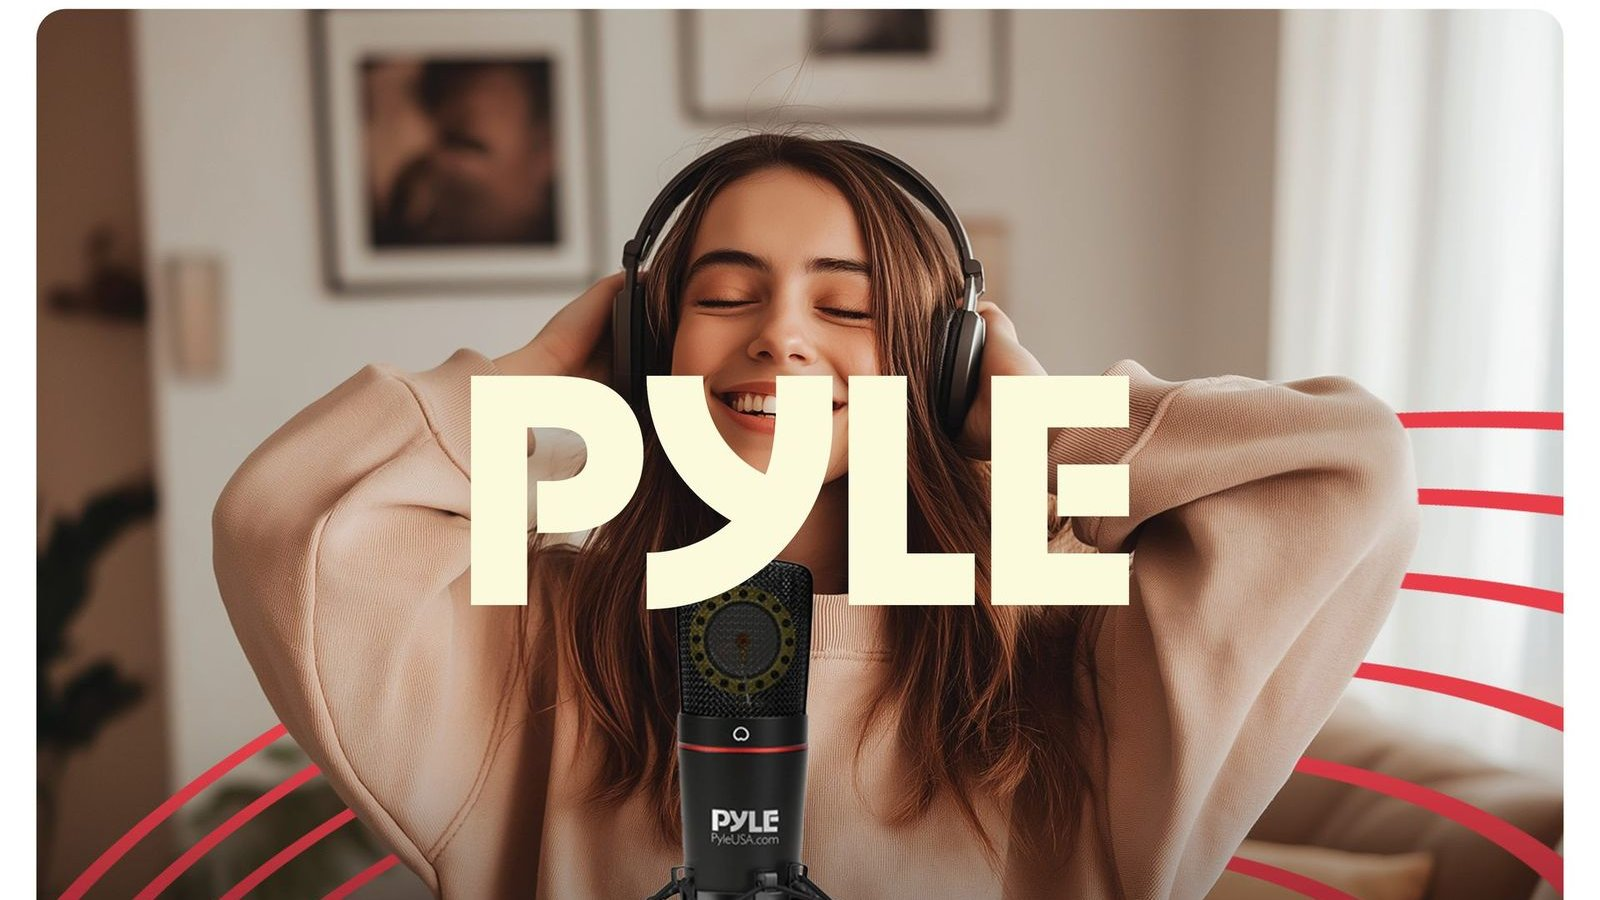
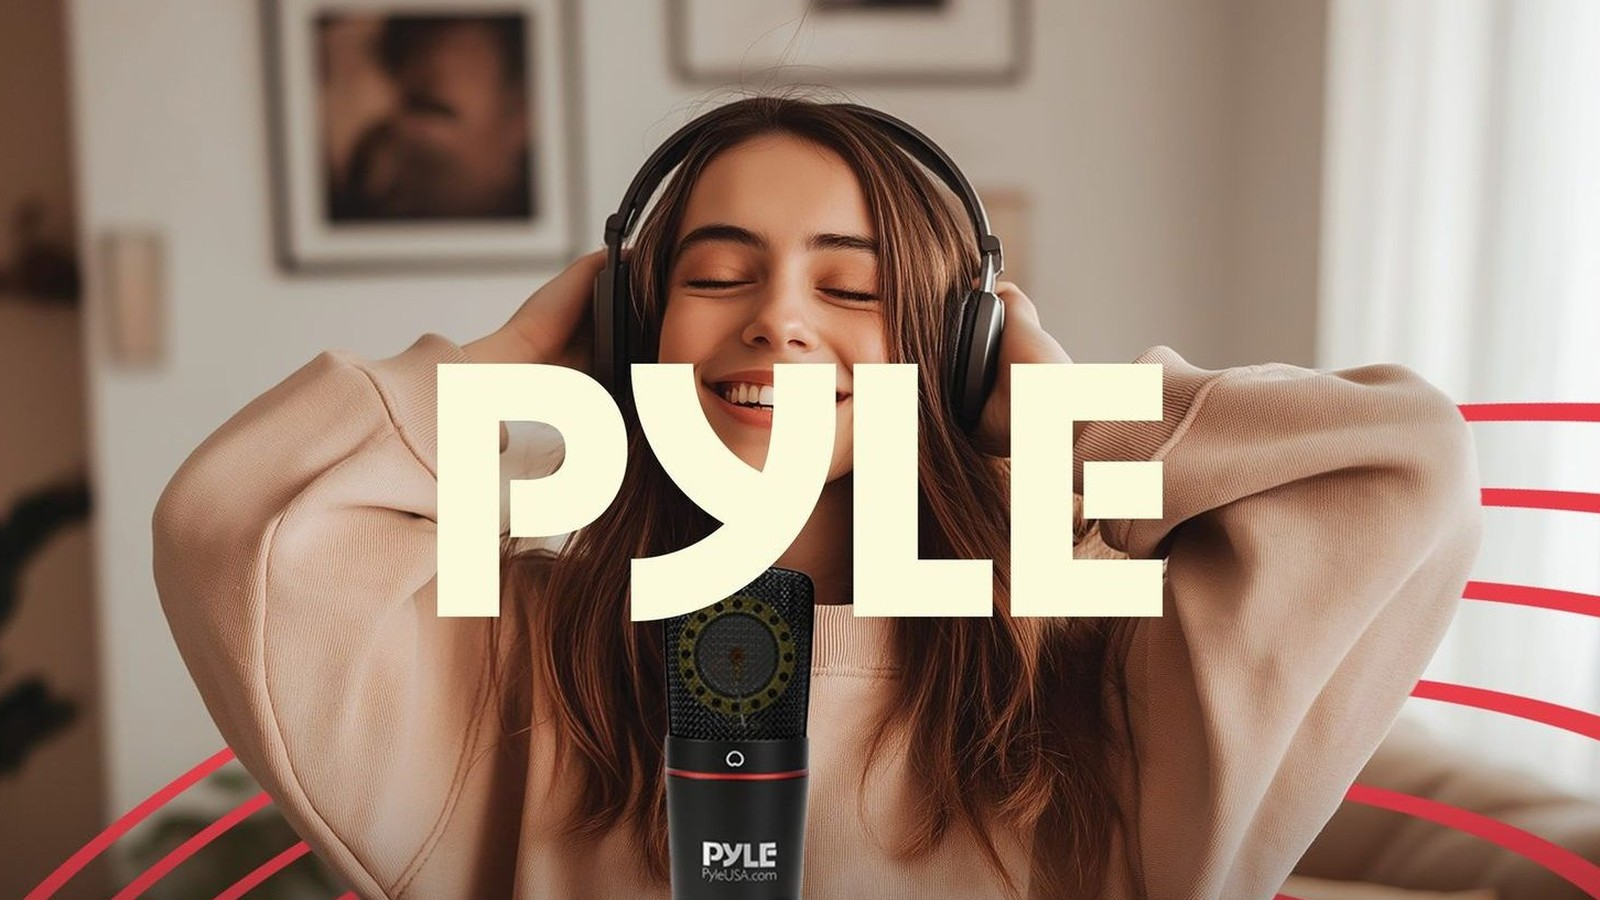
Frames: trim white borders baked into the Pyle and SpritzOnMe frame photos; slight overscan on all frame art
Claude-Session: https://claude.ai/code/session_01M1gM3cs11M6th9xn3DzMyQ

diff --git a/index.html b/index.html
@@ -1957,7 +1957,7 @@ ART.photo = (c, P, i) => {
   const g = c.createLinearGradient(0, 0, 0, AH); g.addColorStop(0, P.c1); g.addColorStop(1, P.c2); c.fillStyle = g; c.fillRect(0, 0, AW, AH);
   if (!P.card) return;
   const im = new Image();
-  im.onload = () => { const sc = Math.max(AW / im.width, AH / im.height), w = im.width * sc, h = im.height * sc; c.drawImage(im, (AW - w) / 2, (AH - h) / 2, w, h); plateCacheReset(i); if (artTexs[i]) artTexs[i].needsUpdate = true; };
+  im.onload = () => { const sc = Math.max(AW / im.width, AH / im.height) * 1.03, w = im.width * sc, h = im.height * sc; c.drawImage(im, (AW - w) / 2, (AH - h) / 2, w, h); plateCacheReset(i); if (artTexs[i]) artTexs[i].needsUpdate = true; };
   im.src = FRAME_PIC[P.id] || P.card;
 };
 ART.wordmark = (c, P) => {
@@ -3001,7 +3001,7 @@ async function build() {
       ["pointerdown", "touchstart", "scroll", "wheel", "keydown"].forEach((ev) => addEventListener(ev, go, { once: true, passive: true, capture: true }));
       go();
     }
-    if (land) new THREE.TextureLoader().load(land, (t) => { t.colorSpace = THREE.SRGBColorSpace; t.anisotropy = aniso; if (art) { art.material.map = t; art.material.needsUpdate = true; } });
+    if (land) new THREE.TextureLoader().load(land, (t) => { t.colorSpace = THREE.SRGBColorSpace; t.repeat.set(0.97, 0.97); t.offset.set(0.015, 0.015); t.anisotropy = aniso; if (art) { art.material.map = t; art.material.needsUpdate = true; } });
     const art = new THREE.Mesh(new THREE.PlaneGeometry(aw, ah), std({ map: tex, roughness: 0.5 })); art.position.z = 0.132; g.add(art);
     const washMat = new THREE.MeshBasicMaterial({ map: washTex, transparent: true, opacity: 0.16, blending: THREE.AdditiveBlending, depthWrite: false });
     const wash = new THREE.Mesh(new THREE.PlaneGeometry(ow * 1.9, oh * 1.5), washMat); wash.position.set(0, oh * 0.1, 0.012); g.add(wash);
